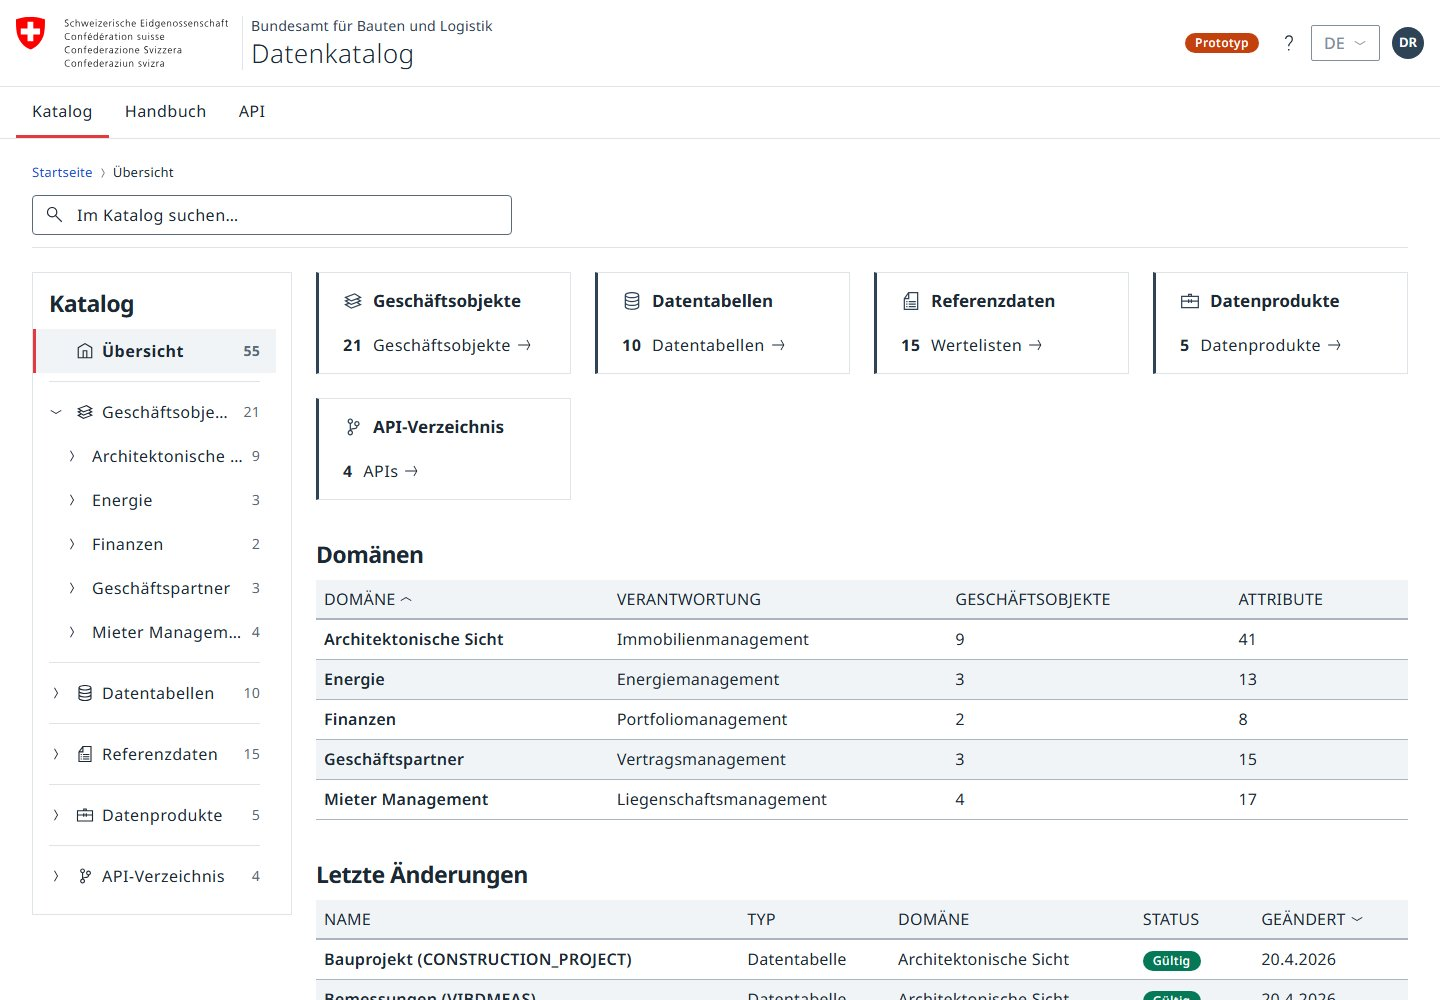
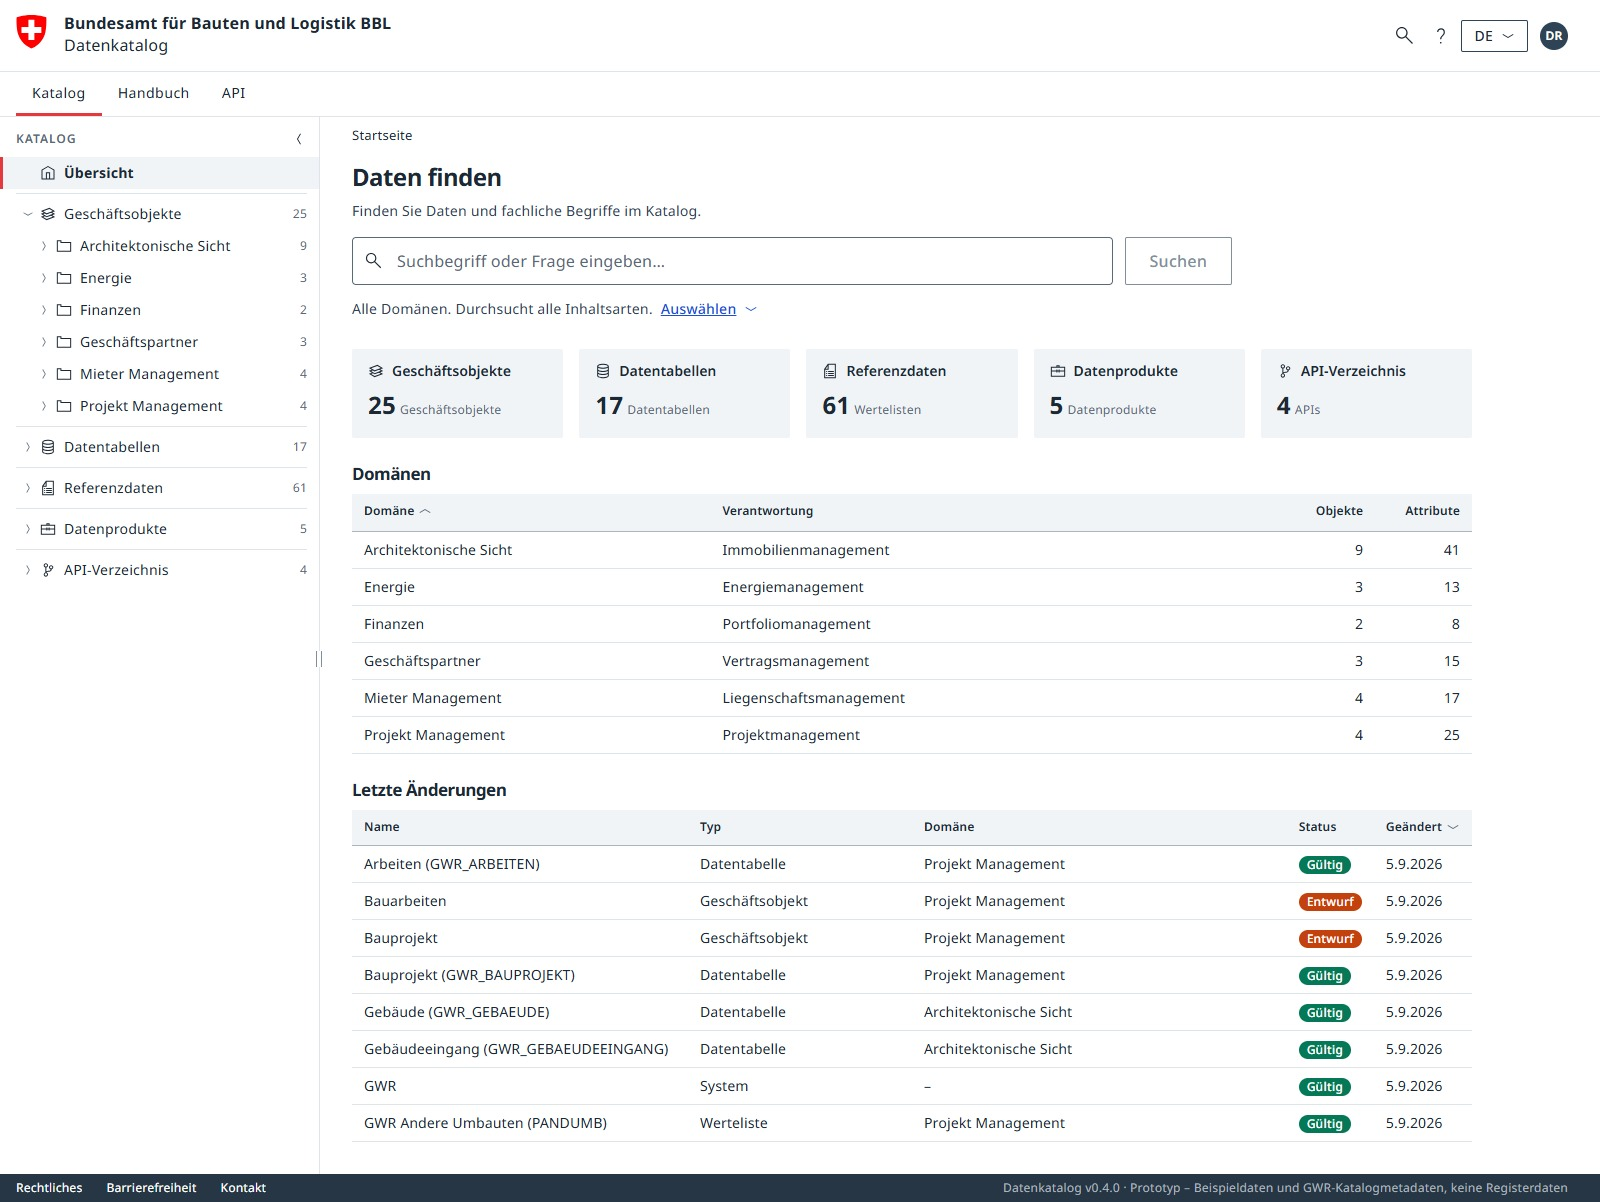
Update

diff --git a/prototype-oblique/README.md b/prototype-oblique/README.md
@@ -13,7 +13,7 @@ Data catalog for the Swiss Federal Office for Buildings and Logistics (BBL) that
 **Live demo:** https://bbl-dres.github.io/data-catalog/prototype-oblique/
 
 <p align="center">
-  <img src="assets/preview-1.jpg" alt="Datenkatalog home page with KPI cards, domain table and latest changes" width="49%" align="top"/>
+  <img src="assets/preview-1.jpg" alt="Datenkatalog home page with hero search, search filters, KPI cards, domain table and latest changes" width="49%" align="top"/>
   <img src="assets/preview-2.jpg" alt="Profile page of a business object with contacts, facts and metadata" width="49%" align="top"/>
 </p>
 
